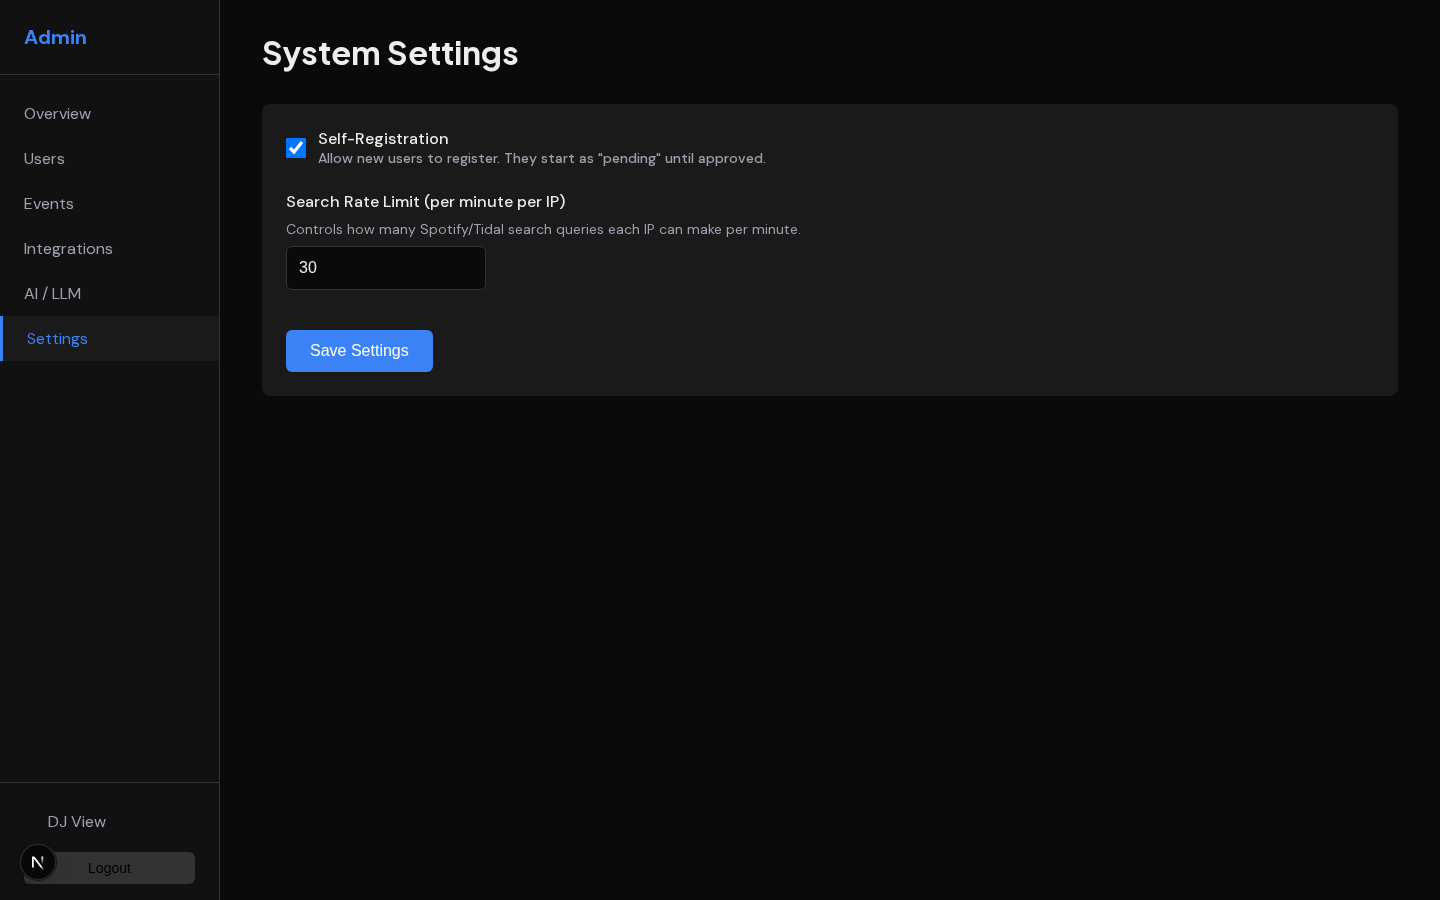
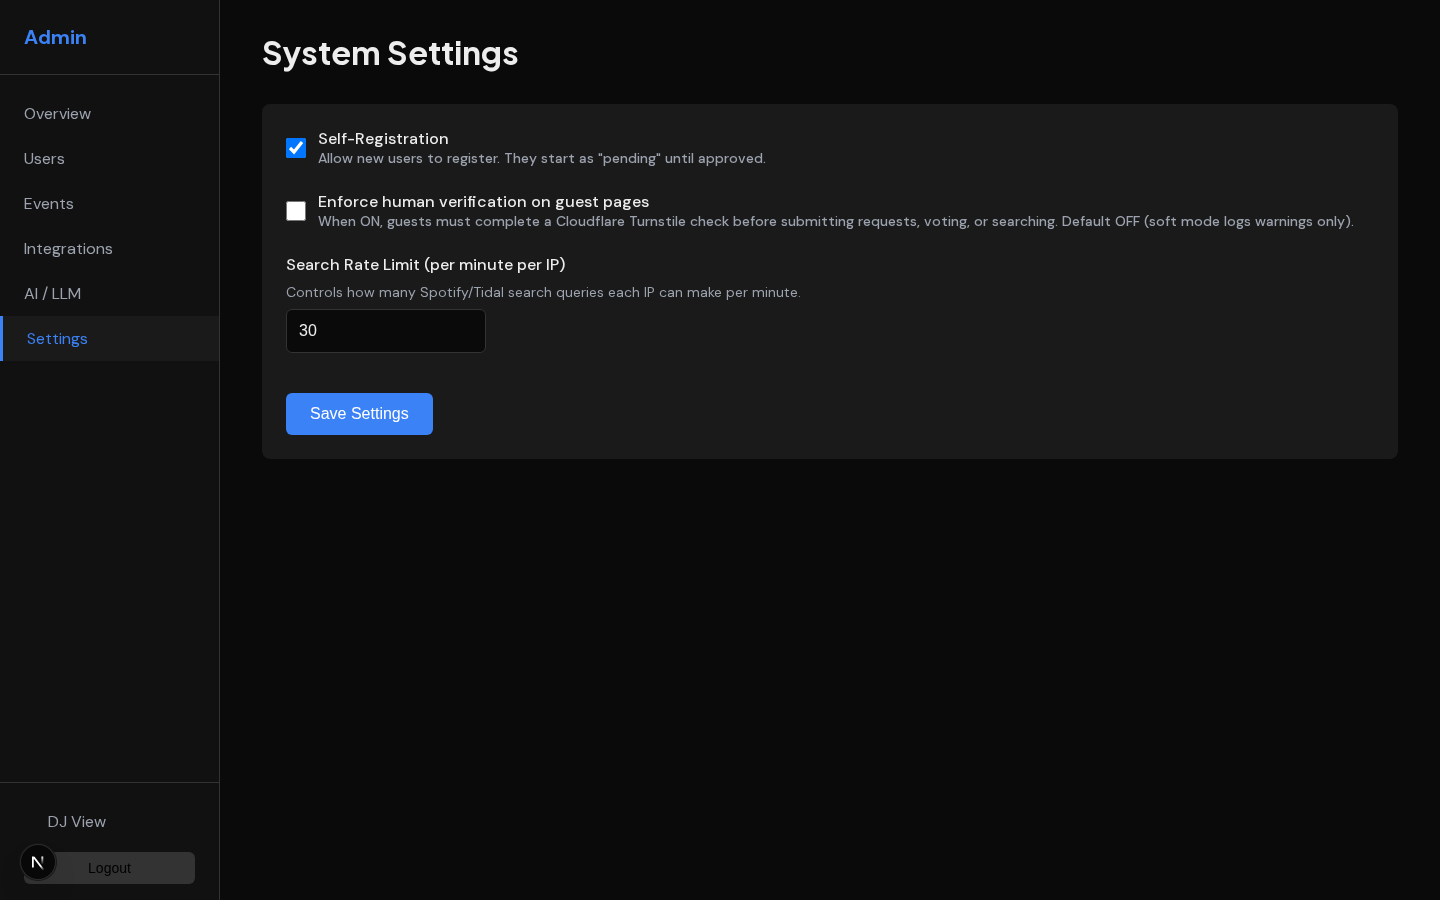
fix(human-verify): accept unpadded base64 HUMAN_COOKIE_SECRET (#276)
* docs: refresh README + DEPLOYMENT for human verification, collect, email verify

Reflects features added since last refresh:
- Cloudflare Turnstile human verification on /join + /collect
- Mandatory nickname gate, profanity filter, email verification (Resend)
- Pre-event collection flow + Tower v2 UI
- Enrich All advanced action
- HUMAN_COOKIE_SECRET, RESEND_API_KEY, EMAIL_FROM_ADDRESS, SOUNDCHARTS_*
- Security section: MultiFernet rotation, pinned image SHAs, IP-free identity

* chore(screenshots): refresh from demo event seed + add Collect capture

- Add server/scripts/seed_demo_event.py to populate a "demo" event with
  4 enriched requests (BPM/key/genre) and 1 upvoted by a fake guest
- Update playwright fixture to use DEMO01 when present, fall back to
  fresh-event creation. Avoids picking a stale expired event[0].
- Add Guest Collect (mobile) capture — forces collection_phase_override
  to render the Tower v2 nickname gate
- Refresh all docs/images/*.png from new run

* chore(screenshots): capture Tower v2 styled UI + song detail panels

Previous /join and /collect captures only showed the NicknameGate.
Seed script now creates a verified Guest + per-event GuestProfile so
Playwright can drop a wrzdj_guest cookie and bypass the gate, capturing
the actual Tower v2 leaderboard with rank badges, monogram tiles, vote
counts, "My Picks" section, and gradient CTAs.

Also captures the song detail sheets — tap a row to open the full
[…]

Changed region(s): [[0.1875, 0.2178, 0.625, 0.4978], [0.6875, 0.2178, 0.8438, 0.2489], [0.875, 0.2178, 0.9375, 0.2489]]

diff --git a/dashboard/e2e/screenshots.spec.ts b/dashboard/e2e/screenshots.spec.ts
@@ -30,19 +30,18 @@ test.beforeAll(async ({ playwright }, testInfo) => {
   const loginData = await loginRes.json();
   jwt = loginData.access_token;
 
-  // Find or create an event
-  const eventsRes = await api.get('/api/events', {
+  // Use the pre-seeded "demo" event (server/scripts/seed_demo_event.py) so screenshots
+  // show realistic data: 4 enriched requests (BPM/key/genre) + 1 upvoted by a guest.
+  // Falls back to creating a fresh event if the seed hasn't been run.
+  const seedRes = await api.get('/api/events/DEMO01', {
     headers: { Authorization: `Bearer ${jwt}` },
   });
-  expect(eventsRes.ok()).toBeTruthy();
-  const events = await eventsRes.json();
-
-  if (events.length > 0) {
-    eventCode = events[0].code;
+  if (seedRes.ok()) {
+    eventCode = 'DEMO01';
   } else {
     const createRes = await api.post('/api/events', {
       headers: { Authorization: `Bearer ${jwt}` },
-      data: { name: 'Screenshot Test Event' },
+      data: { name: 'demo' },
     });
     expect(createRes.ok()).toBeTruthy();
     const created = await createRes.json();
@@ -157,8 +156,33 @@ test.describe('Authenticated pages', () => {
 
 // --- Public pages ---
 
+// Token from server/scripts/seed_demo_event.py — drops the NicknameGate so we capture
+// the actual Tower v2 styled UI behind it.
+const DEMO_GUEST_TOKEN =
+  'demoguest0000000000000000000000000000000000000000000000000demo';
+
+async function newGuestContext(browser: import('@playwright/test').Browser, baseURL: string) {
+  const ctx = await browser.newContext({
+    viewport: { width: 430, height: 844 },
+    ignoreHTTPSErrors: true,
+  });
+  const url = new URL(baseURL);
+  await ctx.addCookies([
+    {
+      name: 'wrzdj_guest',
+      value: DEMO_GUEST_TOKEN,
+      domain: url.hostname,
+      path: '/',
+      secure: true,
+      sameSite: 'Lax',
+    },
+  ]);
+  return ctx;
+}
+
 test.describe('Public pages', () => {
-  test('Guest Join (mobile)', async ({ browser }) => {
+  test('Guest Join — gate (mobile)', async ({ browser }) => {
+    // No cookie — captures the unauthenticated NicknameGate.
     const ctx = await browser.newContext({
       viewport: { width: 430, height: 844 },
       ignoreHTTPSErrors: true,
@@ -166,7 +190,44 @@ test.describe('Public pages', () => {
     const page = await ctx.newPage();
     await page.goto(`/join/${eventCode}`);
     await waitForPage(page);
+    await capture(page, 'guest-join-gate-mobile');
+    await ctx.close();
+  });
+
+  test('Guest Join — Tower (mobile)', async ({ browser }, testInfo) => {
+    const baseURL = testInfo.project.use.baseURL || 'https://app.local';
+    const ctx = await newGuestContext(browser, baseURL);
+    const page = await ctx.newPage();
+    await page.goto(`/join/${eventCode}`);
+    await waitForPage(page);
+    await page.waitForTimeout(700);
     await capture(page, 'guest-join-mobile');
+
+    // Open song detail sheet — first request row.
+    const firstRow = page.locator('.gst-tower-row').first();
+    if ((await firstRow.count()) > 0) {
+      await firstRow.click();
+      await page.waitForTimeout(500);
+      await capture(page, 'guest-join-detail-mobile');
+    }
+    await ctx.close();
+  });
+
+  test('Guest Collect — Tower (mobile)', async ({ browser }, testInfo) => {
+    const baseURL = testInfo.project.use.baseURL || 'https://app.local';
+    const ctx = await newGuestContext(browser, baseURL);
+    const page = await ctx.newPage();
+    await page.goto(`/collect/${eventCode}`);
+    await waitForPage(page);
+    await page.waitForTimeout(700);
+    await capture(page, 'guest-collect-mobile');
+
+    const firstRow = page.locator('.gst-collect-row').first();
+    if ((await firstRow.count()) > 0) {
+      await firstRow.click();
+      await page.waitForTimeout(500);
+      await capture(page, 'guest-collect-detail-mobile');
+    }
     await ctx.close();
   });
 

diff --git a/server/scripts/seed_demo_event.py b/server/scripts/seed_demo_event.py
@@ -1,0 +1,126 @@
+"""Seed a 'demo' event with 4 enriched requests + 1 upvoted, for screenshot fixtures.
+
+Also seeds a verified guest + per-event profile so Playwright fixtures can drop a
+`wrzdj_guest` cookie and bypass the NicknameGate to capture the Tower v2 UI.
+"""
+
+import hashlib
+from datetime import timedelta
+
+from app.core.time import utcnow
+from app.db.session import SessionLocal
+from app.models.event import Event
+from app.models.guest import Guest
+from app.models.guest_profile import GuestProfile
+from app.models.request import Request as SongRequest
+from app.models.user import User
+
+DEMO_GUEST_TOKEN = "demoguest0000000000000000000000000000000000000000000000000demo"
+DEMO_GUEST_NICKNAME = "Marcus"
+
+
+def _dedupe_key(artist: str, title: str) -> str:
+    return hashlib.sha1(f"{artist.lower()}|{title.lower()}".encode()).hexdigest()
+
+
+def main() -> None:
+    db = SessionLocal()
+    try:
+        admin = db.query(User).filter(User.username == "admin").first()
+        if not admin:
+            raise SystemExit("admin user not found")
+
+        event = db.query(Event).filter(Event.name == "demo").first()
+        if event is None:
+            event = Event(
+                code="DEMO01",
+                name="demo",
+                created_by_user_id=admin.id,
+                expires_at=utcnow() + timedelta(days=7),
+                is_active=True,
+                requests_open=True,
+            )
+            db.add(event)
+            db.flush()
+        else:
+            event.expires_at = utcnow() + timedelta(days=7)
+            event.is_active = True
+            event.archived_at = None
+
+        # Force collection phase so /collect renders the leaderboard, not the live queue.
+        event.collection_phase_override = "force_collection"
+
+        db.query(SongRequest).filter(SongRequest.event_id == event.id).delete()
+        db.flush()
+
+        seeds = [
+            ("Daft Punk", "One More Time", "House", 123.0, "8A", "Marcus", 0),
+            ("Fred again..", "Delilah", "UK Garage", 138.0, "11A", "Jenny", 7),
+            ("CamelPhat", "Cola", "Tech House", 124.0, "5A", "Tyler", 0),
+            ("Disclosure", "Latch", "Future Garage", 121.0, "10B", "Sasha", 0),
+        ]
+
+        # Verified demo guest needs to exist before requests so we can link Marcus's pick.
+        guest = db.query(Guest).filter(Guest.token == DEMO_GUEST_TOKEN).first()
+        if guest is None:
+            guest = Guest(
+                token=DEMO_GUEST_TOKEN,
+                nickname=DEMO_GUEST_NICKNAME,
+                email_verified_at=utcnow(),
+            )
+            db.add(guest)
+            db.flush()
+        else:
+            guest.email_verified_at = utcnow()
+            guest.nickname = DEMO_GUEST_NICKNAME
+
+        for artist, title, genre, bpm, key, nick, votes in seeds:
+            req = SongRequest(
+                event_id=event.id,
+                song_title=title,
+                artist=artist,
+                source="manual",
+                nickname=nick,
+                status="new",
+                genre=genre,
+                bpm=bpm,
+                musical_key=key,
+                vote_count=votes,
+                dedupe_key=_dedupe_key(artist, title),
+                # Link Marcus's pick to demo guest so /join doesn't auto-open the
+                # "submit a request" sheet over the screenshot.
+                guest_id=guest.id if nick == DEMO_GUEST_NICKNAME else None,
+                # Surface in /collect leaderboard.
+                submitted_during_collection=True,
+            )
+            db.add(req)
+
+        # Per-event profile (the Guest row is created above, before requests).
+        profile = (
+            db.query(GuestProfile)
+            .filter(GuestProfile.event_id == event.id, GuestProfile.guest_id == guest.id)
+            .first()
+        )
+        if profile is None:
+            db.add(
+                GuestProfile(
+                    event_id=event.id,
+                    guest_id=guest.id,
+                    nickname=DEMO_GUEST_NICKNAME,
+                    submission_count=1,
+                )
+            )
+        else:
+            profile.nickname = DEMO_GUEST_NICKNAME
+
+        db.commit()
+        print(
+            f"seeded event '{event.name}' code={event.code} id={event.id} "
+            f"guest_token={DEMO_GUEST_TOKEN}"
+        )
+    finally:
+        db.close()
+
+
+if __name__ == "__main__":
+    main()

diff --git a/server/tests/test_config.py b/server/tests/test_config.py
@@ -1,0 +1,62 @@
+"""Tests for app.core.config.Settings derived properties."""
+
+import base64
+import secrets
+
+import pytest
+
+from app.core.config import Settings
+
+
+def _make_settings(**overrides) -> Settings:
+    """Build a Settings instance bypassing env, with safe required defaults."""
+    defaults = {
+        "database_url": "sqlite:///:memory:",
+        "jwt_secret": "test-secret-not-default",
+        "env": "development",
+    }
+    defaults.update(overrides)
+    return Settings(**defaults)
+
+
+class TestEffectiveHumanCookieSecret:
+    """Regression: secrets.token_urlsafe(32) yields 43-char unpadded base64.
+
+    Production was set with such a value and base64.urlsafe_b64decode without
+    padding raised binascii.Error, returning 500 from /verify-human.
+    """
+
+    def test_unpadded_43char_token_urlsafe(self) -> None:
+        raw = secrets.token_bytes(32)
+        unpadded = base64.urlsafe_b64encode(raw).decode().rstrip("=")
+        assert len(unpadded) == 43
+
+        s = _make_settings(human_cookie_secret=unpadded)
+        assert s.effective_human_cookie_secret == raw
+
+    def test_padded_44char_openssl_rand(self) -> None:
+        raw = secrets.token_bytes(32)
+        padded = base64.urlsafe_b64encode(raw).decode()
+        assert padded.endswith("=")
+        assert len(padded) == 44
+
+        s = _make_settings(human_cookie_secret=padded)
+        assert s.effective_human_cookie_secret == raw
+
+    def test_invalid_base64_raises(self) -> None:
+        s = _make_settings(human_cookie_secret="!!!not-base64!!!")
+        with pytest.raises(Exception):  # noqa: B017,PT011
+            _ = s.effective_human_cookie_secret
+
+    def test_dev_autogenerates_when_unset(self) -> None:
+        s = _make_settings(env="development", human_cookie_secret="")
+        key = s.effective_human_cookie_secret
+        assert isinstance(key, bytes)
+        assert len(key) == 32
+        # Cached: subsequent calls return same key
+        assert s.effective_human_cookie_secret == key
+
+    def test_production_unset_raises(self) -> None:
+        s = _make_settings(env="production", human_cookie_secret="")
+        with pytest.raises(RuntimeError, match="HUMAN_COOKIE_SECRET"):
+            _ = s.effective_human_cookie_secret

diff --git a/server/app/core/config.py b/server/app/core/config.py
@@ -168,7 +168,11 @@ class Settings(BaseSettings):
         import secrets
 
         if self.human_cookie_secret:
-            return base64.urlsafe_b64decode(self.human_cookie_secret)
+            # Accept both padded (openssl rand -base64 32 → 44 chars) and
+            # unpadded (secrets.token_urlsafe(32) → 43 chars) forms.
+            s = self.human_cookie_secret
+            pad = "=" * (-len(s) % 4)
+            return base64.urlsafe_b64decode(s + pad)
 
         if self.is_production:
             msg = "HUMAN_COOKIE_SECRET is required in production"

diff --git a/server/app/services/turnstile.py b/server/app/services/turnstile.py
@@ -48,4 +48,10 @@ async def verify_turnstile_token(token: str, remote_ip: str | None = None) -> bo
         logger.warning("Turnstile returned malformed response")
         return False
 
-    return result.get("success", False)
+    success = result.get("success", False)
+    if not success:
+        logger.warning(
+            "Turnstile verification rejected: error-codes=%s",
+            result.get("error-codes"),
+        )
+    return success

diff --git a/README.md b/README.md
@@ -34,6 +34,11 @@ A real-time song request system for DJs. Guests scan a QR code to submit request
 - QR code join, no app install or login required
 - Search songs via Spotify, submit requests with notes, upvote others
 - Live request queue and kiosk display showing what's playing now
+- Cloudflare Turnstile human verification (invisible managed challenge) on `/join` and `/collect`
+- Mandatory nickname gate with profanity filter and letter-padding bypass protection
+- Email verification with one-time codes (Resend API) and cross-device guest profile merge
+- Pre-event song collection (`/collect`) — guests vote on suggestions before the night, DJs bulk-review
+- Tower v2 UI on `/join` and `/collect` with banner art, song detail panels, and vibes enrichment
 
 **DJ dashboard**
 - Accept, reject, and manage requests in real-time (SSE push updates)
@@ -45,6 +50,8 @@ A real-time song request system for DJs. Guests scan a QR code to submit request
 - Multi-service playlist sync to Tidal and Beatport with version-aware matching
 - Manual track linking when auto-match fails
 - Event banners, play history with source badges, CSV export
+- "Enrich All" advanced action to backfill BPM/key/genre on existing requests in batches
+- Pre-event collection toggle per event (enable guest voting before doors open)
 - Bridge connection status, activity log, contextual help system
 - Cloud provider OAuth (Tidal, Beatport) with per-event playlist sync toggles
 
@@ -58,6 +65,14 @@ A real-time song request system for DJs. Guests scan a QR code to submit request
 - User management with role-based access (admin/dj/pending) and self-registration
 - Integration health dashboard with per-service enable/disable toggles
 - AI/LLM settings, search rate limits, system settings (all DB-backed, no restart needed)
+- Human verification enforcement toggle (soft mode for rollout, hard mode post-rollout)
+
+**Security & identity**
+- Fernet-encrypted OAuth tokens at rest (MultiFernet for key rotation)
+- Pinned base image SHAs in production Dockerfiles (supply-chain hardening)
+- IP-free guest identity (cookie + ThumbmarkJS reconciliation, no IP storage or logging)
+- HMAC-signed `wrzdj_human` cookie with 60-min sliding window after Turnstile pass
+- IP-bound nonce flow for kiosk-pair (no Turnstile on input-less Pi devices)
 
 **Kiosk display**
 - Full-screen three-column layout: Now Playing, Up Next, Recently Played
@@ -244,6 +259,11 @@ TIDAL_CLIENT_ID / TIDAL_CLIENT_SECRET
 BEATPORT_CLIENT_ID / BEATPORT_CLIENT_SECRET
 BRIDGE_API_KEY=<openssl rand -hex 32>
 ANTHROPIC_API_KEY=<optional, enables AI Assist recommendations>
+TURNSTILE_SITE_KEY / TURNSTILE_SECRET_KEY  # Cloudflare Turnstile (human verification + DJ self-reg)
+HUMAN_COOKIE_SECRET=<openssl rand -base64 32>  # signs wrzdj_human cookie
+RESEND_API_KEY  # email verification provider
+EMAIL_FROM_ADDRESS=noreply@send.yourdomain.com
+SOUNDCHARTS_APP_ID / SOUNDCHARTS_API_KEY  # discovery API
 CORS_ORIGINS=https://app.yourdomain.com
 PUBLIC_URL=https://app.yourdomain.com
 ```

diff --git a/deploy/DEPLOYMENT.md b/deploy/DEPLOYMENT.md
@@ -111,8 +111,17 @@ openssl rand -hex 32
 Fill in all required values in `deploy/.env`:
 - `POSTGRES_PASSWORD` - secure database password
 - `JWT_SECRET` - generated secret above
-- `SPOTIFY_CLIENT_ID` - from Spotify Developer Dashboard
-- `SPOTIFY_CLIENT_SECRET` - from Spotify Developer Dashboard
+- `TOKEN_ENCRYPTION_KEY` - `openssl rand -hex 32` (Fernet key for OAuth tokens at rest)
+- `HUMAN_COOKIE_SECRET` - `openssl rand -base64 32` (signs `wrzdj_human` verification cookie)
+- `SPOTIFY_CLIENT_ID` / `SPOTIFY_CLIENT_SECRET` - Spotify Developer Dashboard
+- `TIDAL_CLIENT_ID` / `TIDAL_CLIENT_SECRET` - Tidal Developer Portal (playlist sync)
+- `BEATPORT_CLIENT_ID` / `BEATPORT_CLIENT_SECRET` - Beatport API (electronic music search/sync)
+- `BRIDGE_API_KEY` - shared secret for the bridge → API auth
+- `TURNSTILE_SITE_KEY` / `TURNSTILE_SECRET_KEY` - Cloudflare Turnstile (human verification + DJ self-reg CAPTCHA)
+- `RESEND_API_KEY` - Resend transactional email (guest email verification + cross-device merge)
+- `EMAIL_FROM_ADDRESS` - verified send-from address (e.g. `noreply@send.yourdomain.com`)
+- `ANTHROPIC_API_KEY` - optional, enables AI Assist recommendations
+- `SOUNDCHARTS_APP_ID` / `SOUNDCHARTS_API_KEY` - optional, third candidate source for recommendations
 
 ### 3. Configure nginx
 
